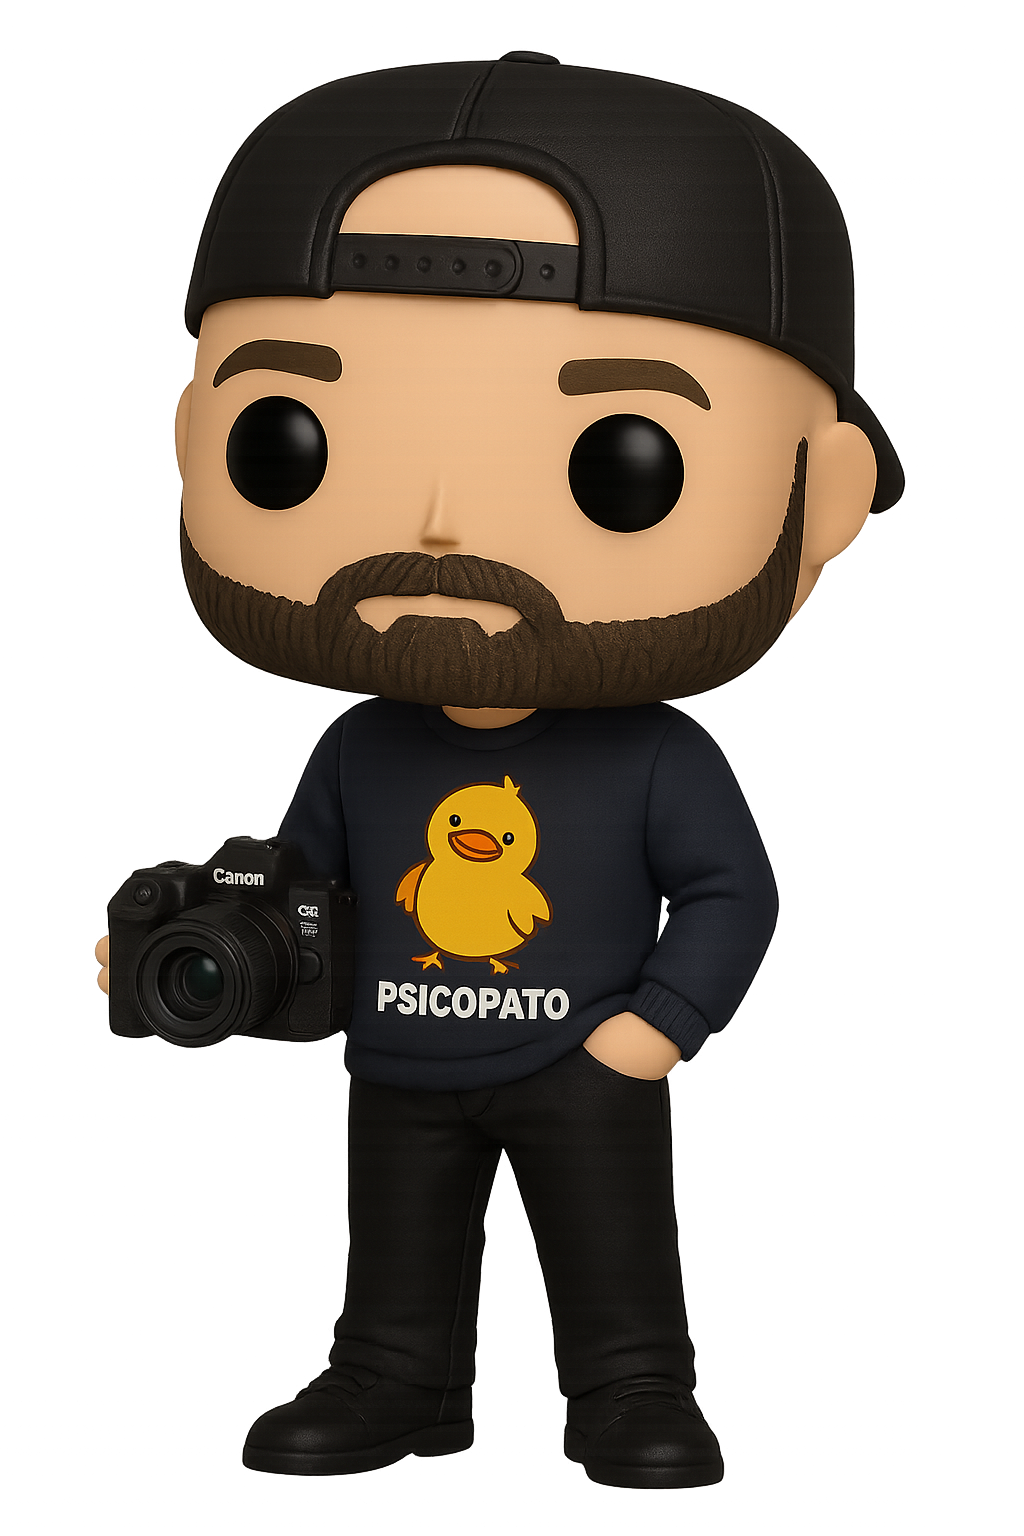
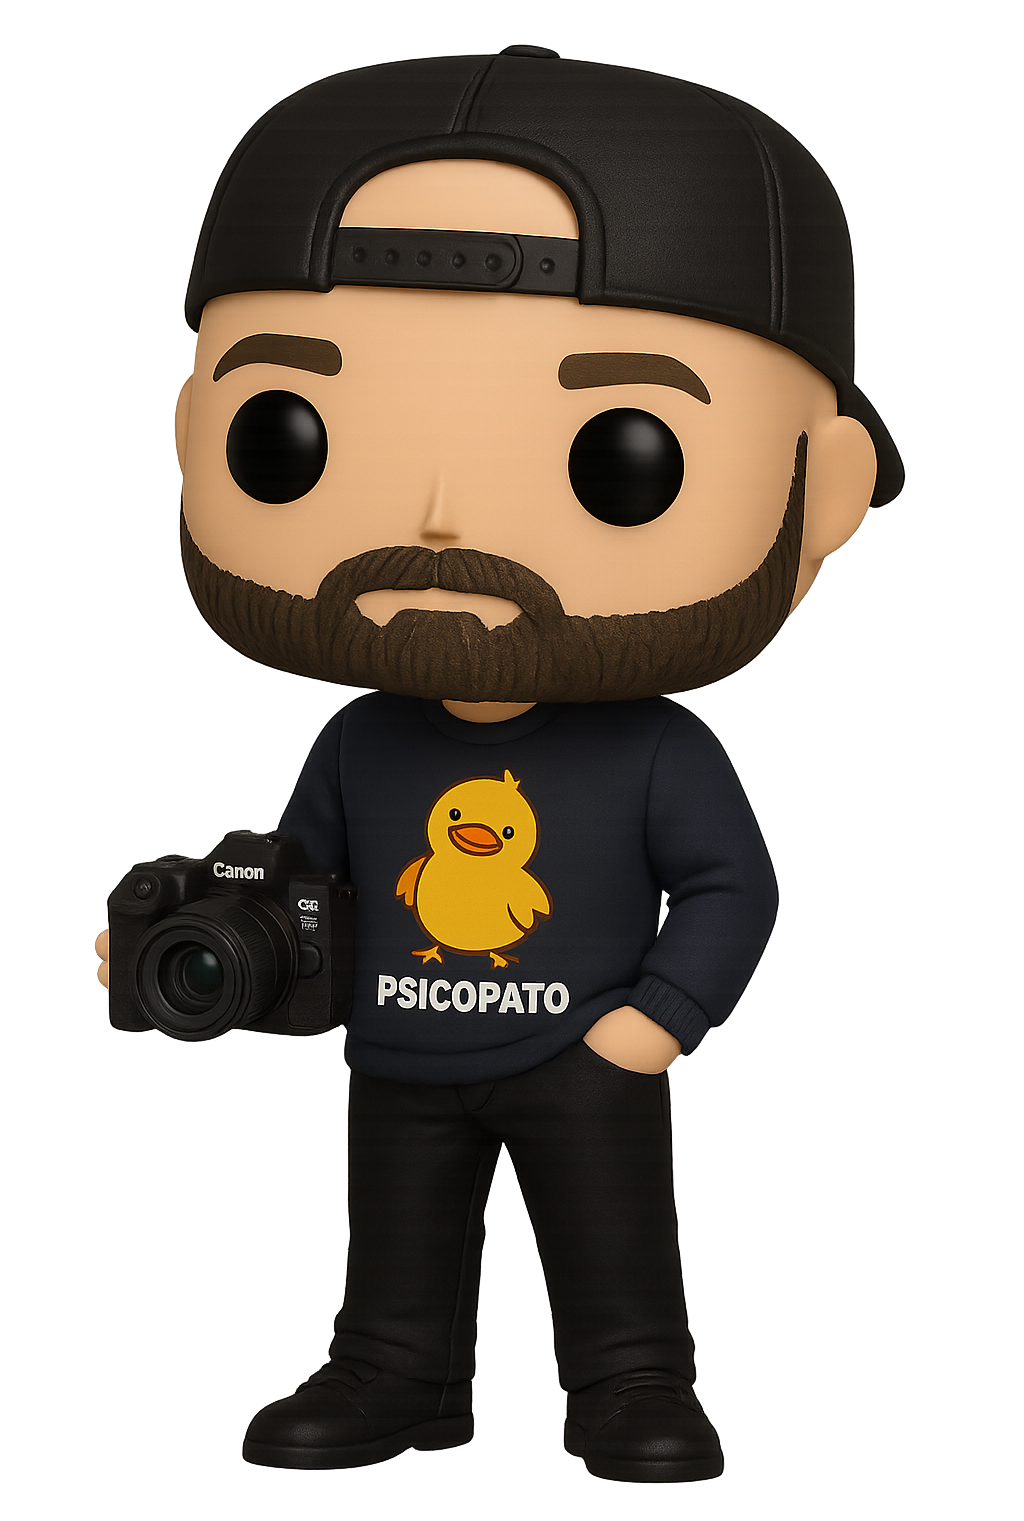
Funko Pop: transparent background, full figure, desktop only
- Removed white background from funk.png using alpha channel
- Full figure visible (w-28 auto height) with drop shadow
- Hidden on mobile (lg:flex), only shows on desktop sidebar
- Positioned above Command Centre title like standing on it

diff --git a/src/app/page.tsx b/src/app/page.tsx
@@ -1581,9 +1581,9 @@ export default function Dashboard() {
           'fixed lg:sticky top-0 left-0 z-40 h-screen w-60 bg-sidebar border-r border-sidebar-border transition-transform duration-200 lg:translate-x-0 overflow-y-auto flex flex-col',
           sidebarOpen ? 'translate-x-0' : '-translate-x-full'
         )}>
-          <div className="p-5 pt-5">
-            <div className="flex justify-center mb-3">
-              <img src="/funk.png" alt="Ryan Stanikk" className="w-16 h-16 rounded-2xl object-cover object-top" style={{ background: 'color-mix(in srgb, var(--accent) 8%, transparent)' }} />
+          <div className="p-5 pt-4">
+            <div className="hidden lg:flex justify-center mb-2">
+              <img src="/funk.png" alt="Ryan Stanikk" className="w-28 h-auto object-contain drop-shadow-lg" />
             </div>
             <div className="flex items-center justify-between">
               <h1 className="text-base font-bold tracking-tight">Command Centre</h1>
